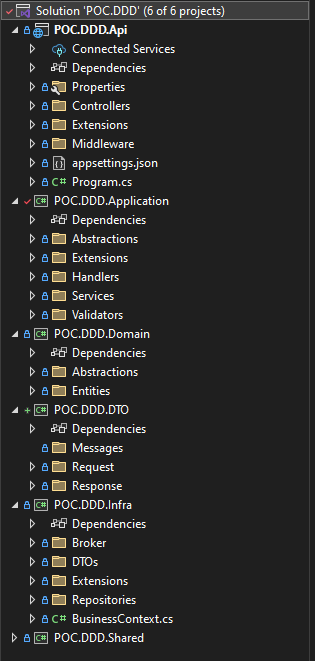
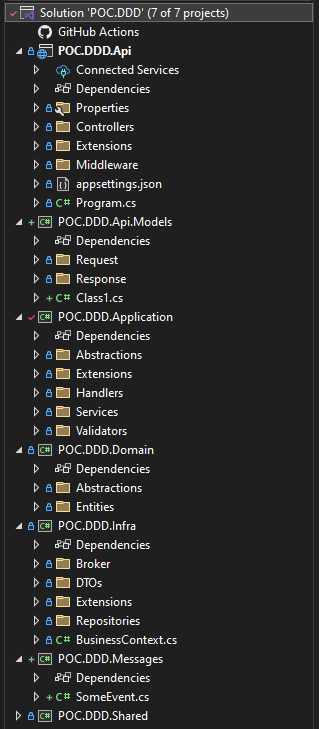
Added Api.Models and Messages

Changed region(s): [[0.0, 0.0, 0.9714, 1.0]]

diff --git a/src/POC.DDD.Api.Models/Class1.cs b/src/POC.DDD.Api.Models/Class1.cs
@@ -1,0 +1,7 @@
+namespace POC.DDD.Api.Models
+{
+    public class Class1
+    {
+
+    }
+}

diff --git a/src/POC.DDD.Messages/SomeEvent.cs b/src/POC.DDD.Messages/SomeEvent.cs
@@ -1,0 +1,7 @@
+namespace POC.DDD.Messages
+{
+    public class Class1
+    {
+
+    }
+}

diff --git a/README.md b/README.md
@@ -21,3 +21,11 @@ As it stands now, the actual implementation of a consumer and a publisher should
 ### External API Client Interfaces
 
 It depends. If the external API is closely tied to the domain, and they act almost as they are repositories, then you put their interfaces in the Domain Layer. However I think it makes sense to put the interface in the Application layer when the data retrieved does not have to do with the domain.
+
+### POC.DDD.Api.Models
+
+This class library will contain Request/Response models. It is its own class library as this can eventually be shared as a package to different services.
+
+### POC.DDD.Messages
+
+This class library will contain Message Events. It is its own class library as this can eventually be shared as a package to different consumer services.
